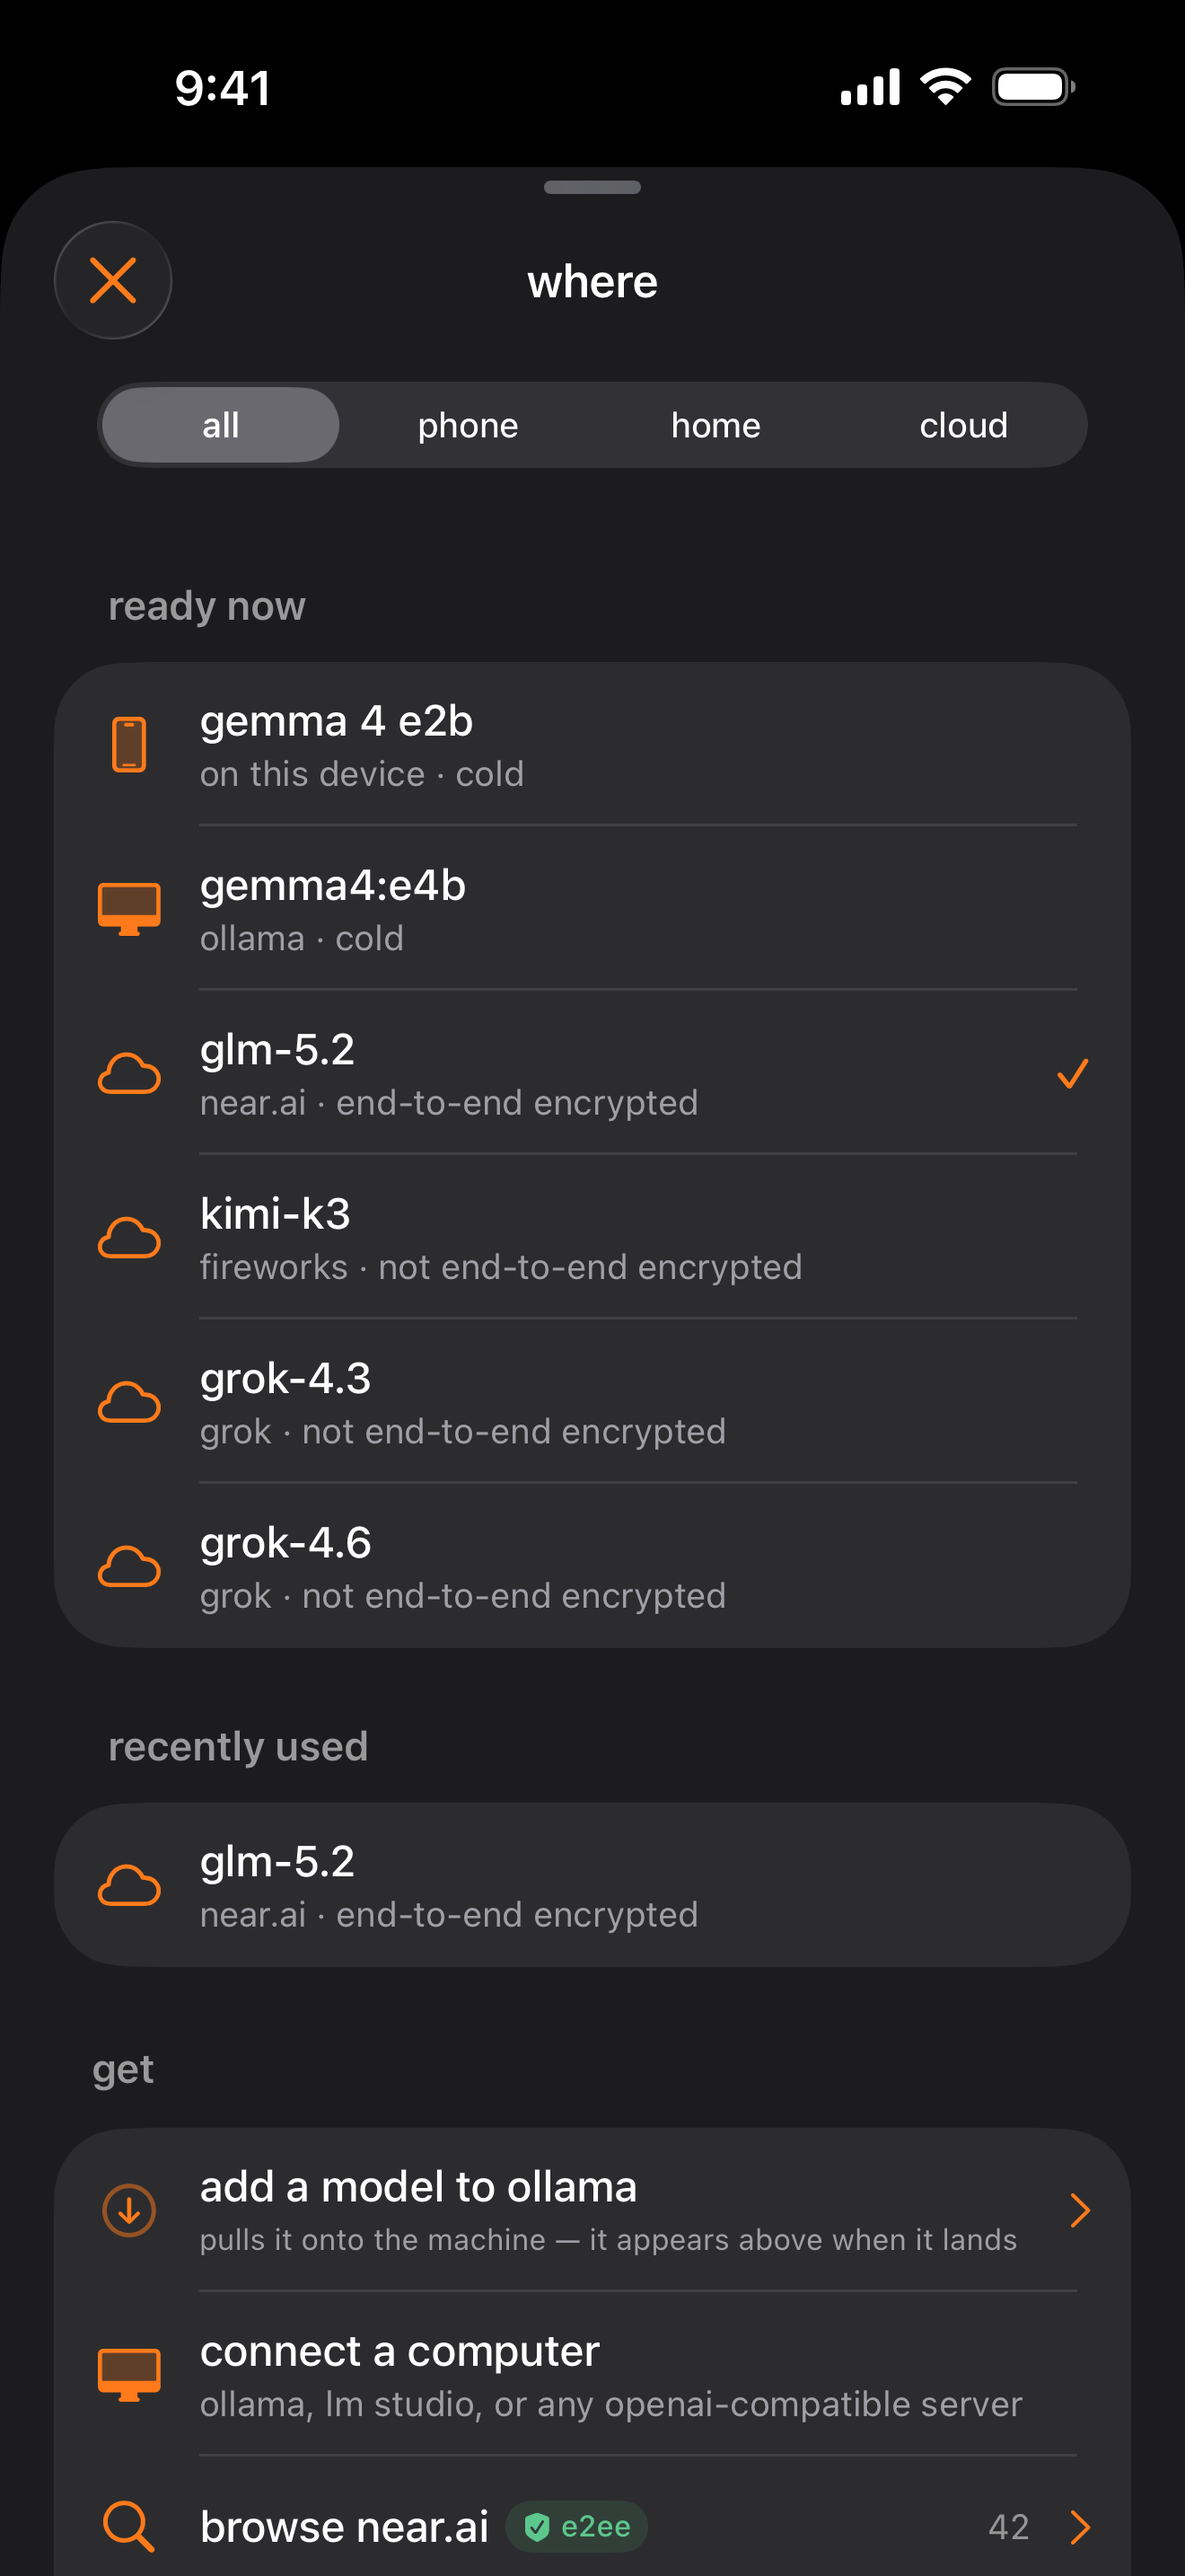
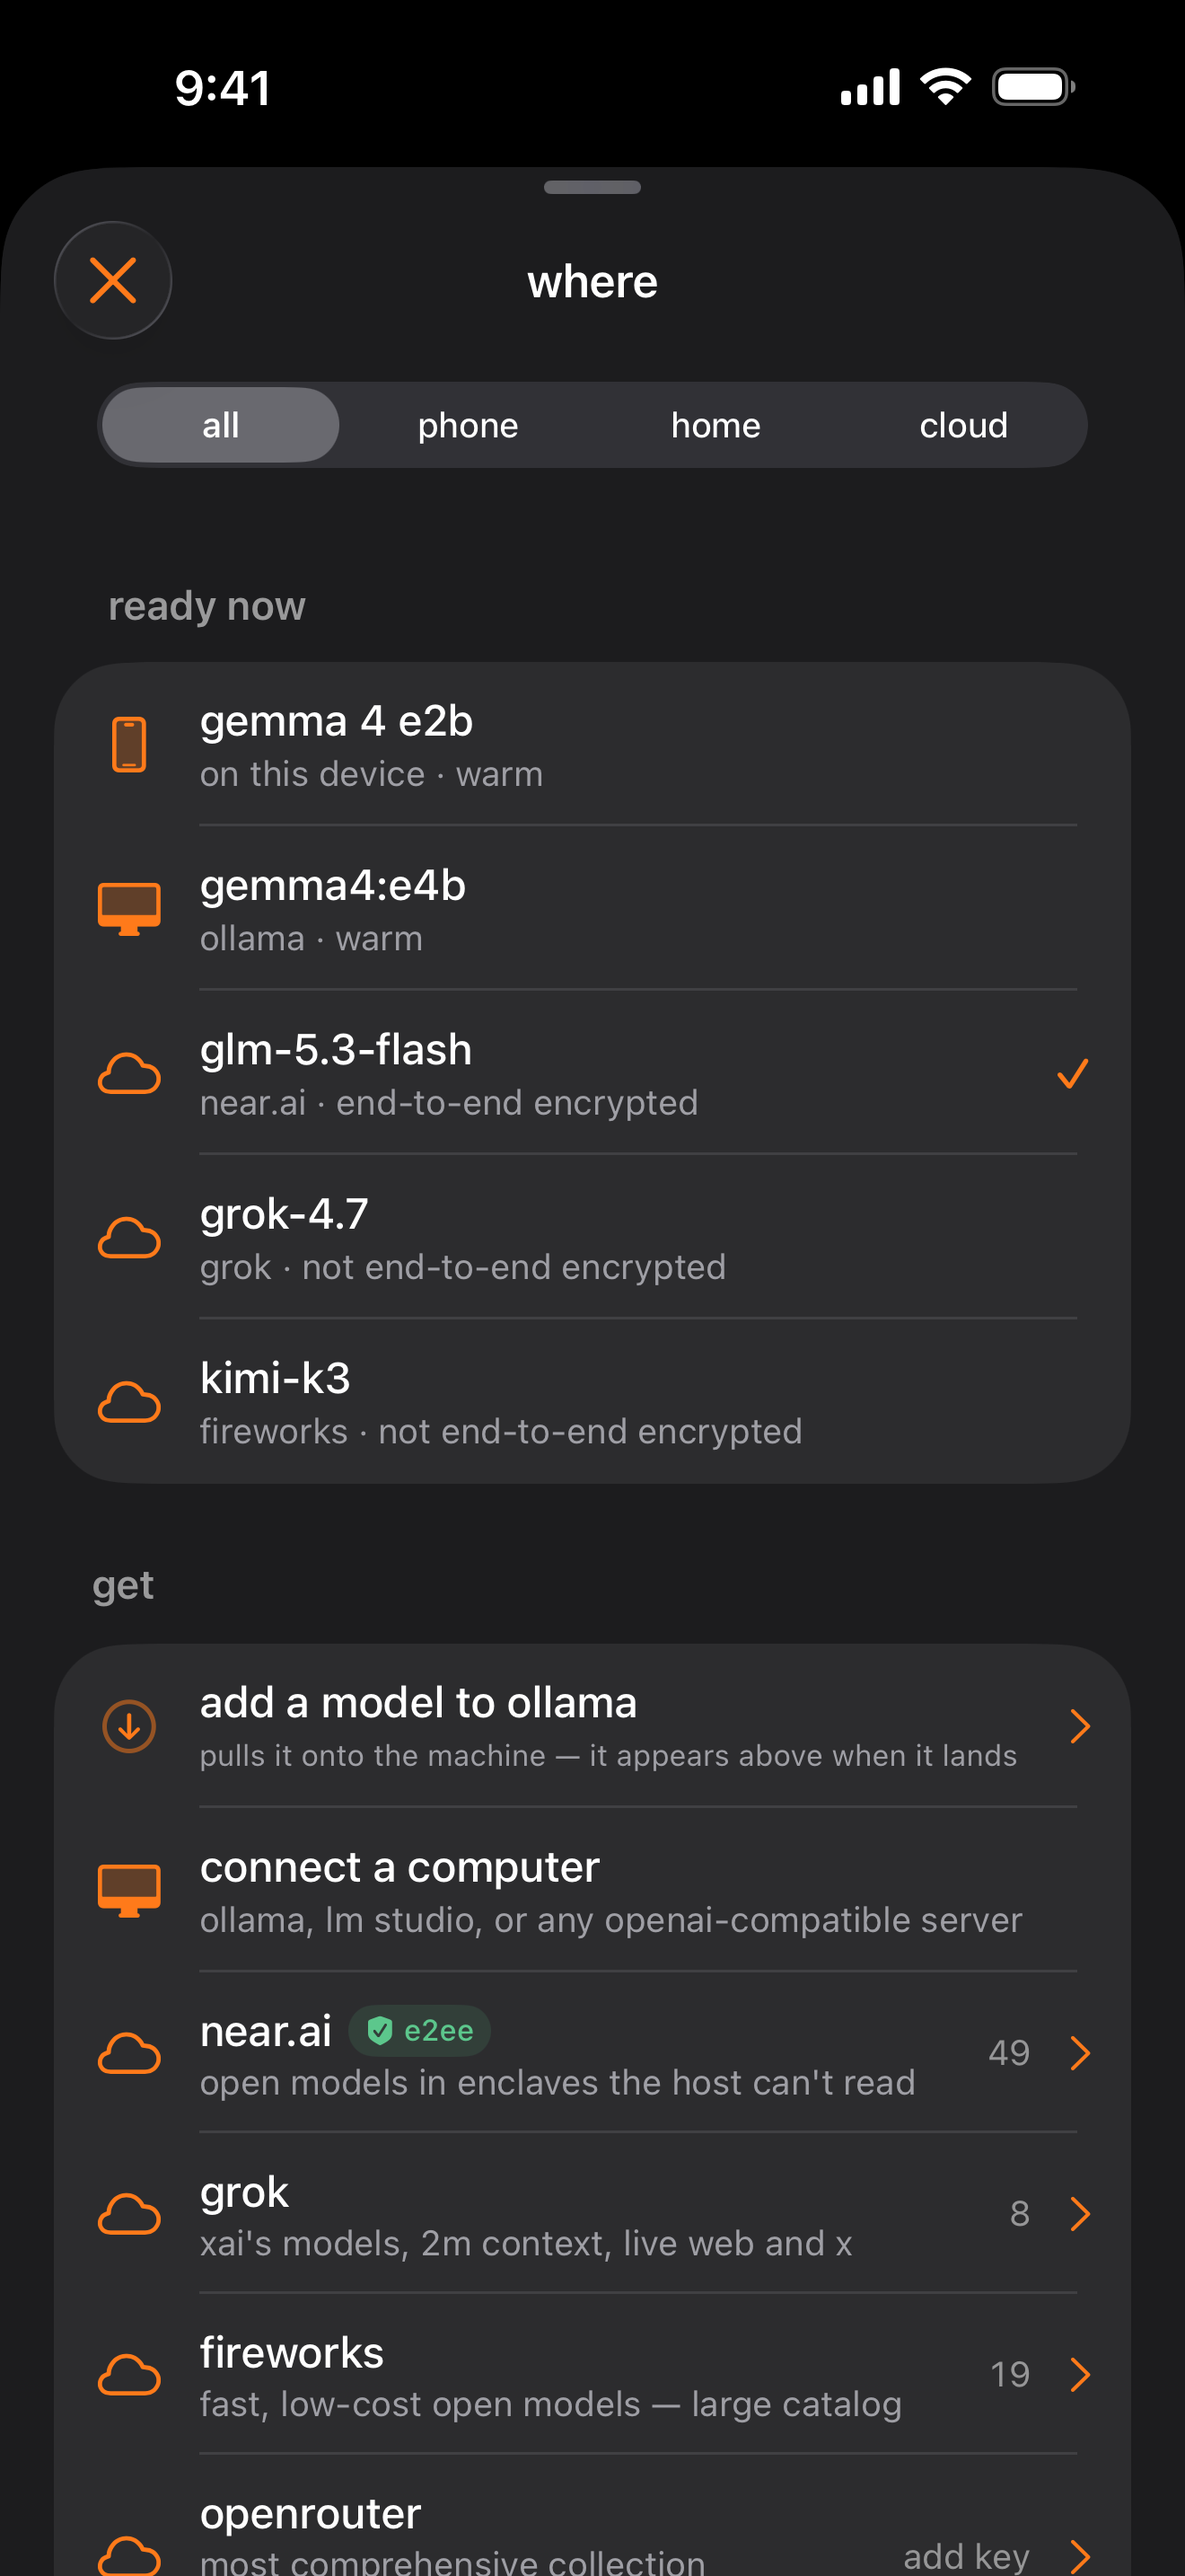
docs: README and catalog frames on glm-5.3-flash; OpenRouter and NVIDIA named; LFS size 145 MB
near.ai retired glm-5.2 on 2026-09-12. The hero, the four where tabs and the
near.ai catalog frame are re-shot on glm-5.3-flash and grok-4.7, with both
local rows warm. The provider lists name OpenRouter and NVIDIA, and the macOS
LiteRT artifact is 145 MB since 0.17.1.

diff --git a/README.md b/README.md
@@ -10,7 +10,7 @@ beta builds on [TestFlight](https://testflight.apple.com/join/WHZ9VPms) · iPhon
 
 <p align="center">
   <img src="assets/chat.png" width="300"
-       alt="A teemoon chat labeled end-to-end encrypted, with live markdown rendering, a model chip reading glm-5.2 · near.ai, and the web search tool switched on.">
+       alt="A teemoon chat labeled end-to-end encrypted, with live markdown rendering, a model chip reading glm-5.3-flash · near.ai, and the web search tool switched on.">
 </p>
 
 teemoon is a private AI chat app. there is no teemoon server. your phone talks
@@ -39,8 +39,8 @@ exactly what the attestation code does — see [`ATTESTATION.md`](ATTESTATION.md
   included. no key, works offline, nothing leaves the device.
 - **a computer you own, or a cloud you pick.** ollama, LM Studio, or any OpenAI-compatible
   server (llama.cpp included) on your own hardware; bring your own key for near.ai, Grok,
-  Fireworks, Brave Answers, and other OpenAI-compatible providers. every cloud provider other
-  than near.ai is plain TLS, and the row says so.
+  Fireworks, OpenRouter, NVIDIA, Brave Answers, and other OpenAI-compatible providers.
+  every cloud provider other than near.ai is plain TLS, and the row says so.
 - **no account, no subscription, no analytics.** history is SwiftData on the device;
   nothing syncs anywhere.
 
@@ -104,10 +104,10 @@ also:
 - **a computer you own** — ollama, LM Studio, or any OpenAI-compatible server
   (llama.cpp included). the app can even browse and download models onto your own
   ollama server.
-- **a cloud you pick** — bring your own key for near.ai, Grok, Fireworks, Brave
-  Answers, and other OpenAI-compatible providers. (an Anthropic key does not work: the app
-  speaks chat/completions, not `/v1/messages` — Claude models are reachable only
-  proxied via near.ai.)
+- **a cloud you pick** — bring your own key for near.ai, Grok, Fireworks,
+  OpenRouter, NVIDIA, Brave Answers, and other OpenAI-compatible providers. (an Anthropic
+  key does not work: the app speaks chat/completions, not `/v1/messages` — Claude models
+  are reachable only proxied via near.ai.)
 
 **end-to-end encryption is near.ai's attested TEE fleet only. every other cloud
 provider is plain TLS. the app labels this per row** — that's the screenshot
@@ -156,7 +156,7 @@ open teemoon.xcodeproj
 ```
 
 LFS is not optional, on any platform. `Packages/LiteRTLM/artifacts/` holds a repackaged macOS
-xcframework (132 MB) that `Package.swift` references by path, and SwiftPM validates that path
+xcframework (145 MB) that `Package.swift` references by path, and SwiftPM validates that path
 when the manifest loads. clone without LFS and you get a text pointer instead of the binary,
 the package fails to resolve at all, and the iOS build goes down with it. see
 [`Packages/LiteRTLM/VENDORING.md`](Packages/LiteRTLM/VENDORING.md) for what the artifact is,

diff --git a/ATTESTATION.md b/ATTESTATION.md
@@ -23,7 +23,7 @@ what it does not prove. for the product overview and the three places a model ca
 
 <p align="center">
   <img src="assets/model-browser.png" width="280"
-       alt="The near.ai model catalog: a confidentiality filter, then models grouped into 'end-to-end encrypted' (qwen 3.8, glm 5.2, deepseek v4 flash…) and 'attested on third-party hardware' tiers, each with per-token input/output pricing and context length.">
+       alt="The near.ai model catalog, 49 models: an 'end-to-end encrypted' tier (glm 5.3 flash, qwen 3.8 27b, qwen 3.6 35b…), then 'attested on third-party hardware' (kimi k3, deepseek-v3.2…) and the start of 'proxied', each row with per-token input/output pricing and context length.">
   <br><em>browse the near.ai catalog — grouped by confidentiality tier, with pricing and context length</em>
 </p>
 
